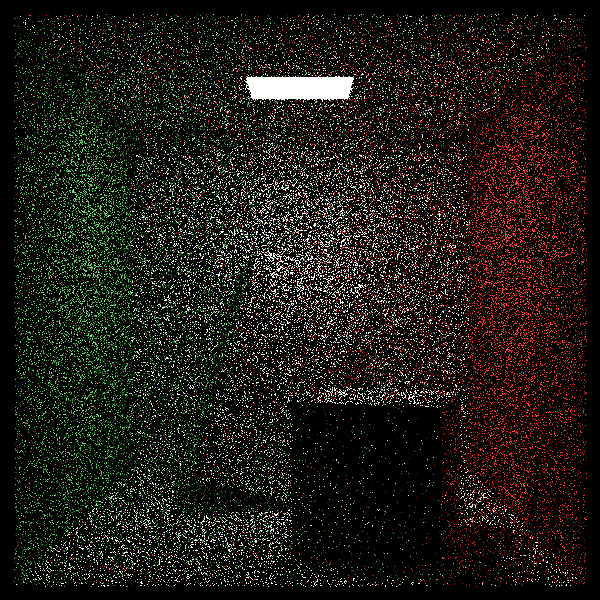
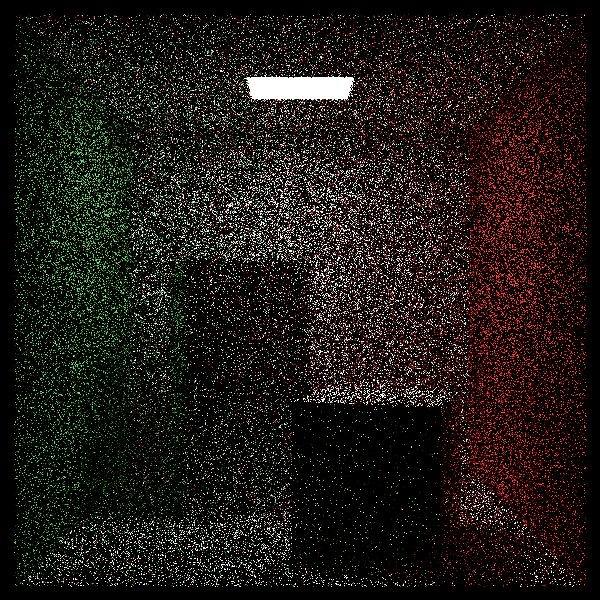
refactor rotate class

diff --git a/hittable.h b/hittable.h
@@ -35,7 +35,8 @@ public:
 
     virtual aabb bounding_box() const = 0;
 
-    virtual void print() const {};
+    virtual void print() const {
+    };
 
     virtual shared_ptr<hittable> get_left_child() const {
         return nullptr;
@@ -77,7 +78,6 @@ private:
     aabb bbox;
 };
 
-// 绕 Y 轴逆时针旋转 θ
 /*
  * 点 (x, y, z) 绕 Z 轴旋转时，z 不变，只需求 (x', y')
  * 假设逆时针旋转 θ，(x, y) 与 x 轴夹角为 α，则 (x', y') 与 x 轴夹角为 θ + α
@@ -96,6 +96,7 @@ private:
  * 得 y' = cos(θ)y - sin(θ)z，
  *    z' = sin(θ)y + cos(θ)z
  */
+// 绕 Y 轴逆时针旋转 θ
 class rotate_y : public hittable {
 public:
     rotate_y(shared_ptr<hittable> object, float angle) : object(object) {
@@ -118,11 +119,7 @@ public:
 
                     // 算出当前顶点的新的 x, z 坐标值
                     // bbox 逆时针旋转 θ
-                    auto newx = cos_theta * x + sin_theta * z;
-                    auto newz = -sin_theta * x + cos_theta * z;
-
-                    vec3 tester(newx, y, newz);
-
+                    vec3 tester = rotate_vec_counter_clockwise(vec3(x, y, z));
                     for (int c = 0; c < 3; c++) {
                         min[c] = std::fminf(min[c], tester[c]);
                         max[c] = std::fmaxf(min[c], tester[c]);
@@ -135,15 +132,9 @@ public:
 
     bool hit(const ray &r, interval ray_t, hit_record &rec) const override {
         // Transform the ray from world space to object space
-        // 光线逆时针旋转 -θ
-        auto origin = point3(cos_theta * r.origin().x() - sin_theta * r.origin().z(),
-                             r.origin().y(),
-                             sin_theta * r.origin().x() + cos_theta * r.origin().z());
-
-        auto direction = vec3(cos_theta * r.direction().x() - sin_theta * r.direction().z(),
-                              r.direction().y(),
-                              sin_theta * r.direction().x() + cos_theta * r.direction().z());
-
+        // 光线顺时针旋转 θ
+        point3 origin = rotate_vec_clockwise(r.origin());
+        auto direction = rotate_vec_clockwise(r.direction());
         ray rotated_r(origin, direction, r.time());
 
         // Determine whether an intersection exists in objects in object space (and if so, where).
@@ -152,14 +143,9 @@ public:
 
         // Transform the intersection from object space back to world space.
         // 逆时针旋转 θ
-        rec.p = point3(cos_theta * rec.p.x() + sin_theta * rec.p.z(),
-                       rec.p.y(),
-                       -sin_theta * rec.p.x() + cos_theta * rec.p.z());
-
+        rec.p = rotate_vec_counter_clockwise(rec.p);
         // 法线也需要旋转回去
-        rec.normal = vec3(cos_theta * rec.normal.x() + sin_theta * rec.normal.z(),
-                          rec.normal.y(),
-                          -sin_theta * rec.normal.x() + cos_theta * rec.normal.z());
+        rec.normal = rotate_vec_counter_clockwise(rec.normal);
 
         return true;
     }
@@ -171,10 +157,42 @@ private:
     float sin_theta;
     float cos_theta;
     aabb bbox;
+
+    // 逆时针
+    vec3 rotate_vec_counter_clockwise(vec3 v) const {
+        auto vec_x = cos_theta * v.x() + sin_theta * v.z();
+        auto vec_z = -sin_theta * v.x() + cos_theta * v.z();
+        return vec3(vec_x, v.y(), vec_z);
+    }
+
+    // 顺时针
+    vec3 rotate_vec_clockwise(vec3 v) const {
+        auto vec_x = cos_theta * v.x() - sin_theta * v.z();
+        auto vec_z = sin_theta * v.x() + cos_theta * v.z();
+        return vec3(vec_x, v.y(), vec_z);
+    }
 };
 
-// 分别绕 x, y, z 轴旋转α, β, γ 度
+// 分别绕 x, y, z 轴逆时针旋转 α, β, γ 度
 // https://blog.csdn.net/shenquanyue/article/details/103262512
+/*
+ * 首先绕 X 轴逆时针旋转
+ * x' = x
+ * y' = cos(α)y - sin(α)z
+ * z' = sin(α)y + cos(α)z
+ *
+ * 接着绕 Y 轴逆时针旋转
+ * x'' = sin(β)z' + cos(β)x' = sin(β)sin(α)y + sin(β)cos(α)z + cos(β)x
+ * y'' = y' = cos(α)y - sin(α)z
+ * z'' = cos(β)z' - sin(β)x' = cos(β)sin(α)y + cos(β)cos(α)z - sin(β)x
+ *
+ * 最后绕 Z 轴逆时针旋转
+ * x''' = cos(γ)x'' - sin(γ)y'' = cos(γ)sin(β)sin(α)y + cos(γ)sin(β)cos(α)z + cos(γ)cos(β)x - sin(γ)cos(α)y + sin(γ)sin(α)z
+ *                              = cos(β)cos(γ)x + (sin(α)sin(β)cos(γ) - sin(γ)cos(α))y + (sin(β)cos(α)cos(γ) + sin(α)sin(γ))z
+ * y''' = sin(γ)x'' + cos(γ)y'' = sin(γ)sin(β)sin(α)y + sin(γ)sin(β)cos(α)z + sin(γ)cos(β)x + cos(γ)cos(α)y - cos(γ)sin(α)z
+ *                              = sin(γ)cos(β)x + (sin(α)sin(β)sin(γ) + cos(α)cos(γ))y + (sin(β)sin(γ)cos(α) - sin(α)cos(γ))z
+ * z''' = z'' =  - sin(β)x + sin(α)cos(β)y + cos(α)cos(β)z
+ */
 class rotate : public hittable {
 public:
     rotate(shared_ptr<hittable> object, float alpha, float beta, float gamma) : object(object) {
@@ -201,10 +219,9 @@ public:
                     auto y = j * bbox.y.max + (1 - j) * bbox.y.min;
                     auto z = k * bbox.z.max + (1 - k) * bbox.z.min;
 
-                    // 算出当前顶点的新的 x, z 坐标值
+                    // 算出当前顶点的新的 x, y, z 坐标值
                     // bbox 逆时针旋转 θ
-                    vec3 tester = rotate_vec_counter_clockwise(x, y, z);
-
+                    vec3 tester = rotate_vec_counter_clockwise(vec3(x, y, z));
                     for (int c = 0; c < 3; c++) {
                         min[c] = std::fminf(min[c], tester[c]);
                         max[c] = std::fmaxf(min[c], tester[c]);
@@ -217,11 +234,9 @@ public:
 
     bool hit(const ray &r, interval ray_t, hit_record &rec) const override {
         // Transform the ray from world space to object space
-        // 光线逆时针旋转 -θ
-        auto origin = rotate_vec_negative_clockwise(r.origin().x(), r.origin().y(), r.origin().z());
-
-        auto direction = rotate_vec_negative_clockwise(r.direction().x(), r.direction().y(), r.direction().z());
-
+        // 光线顺时针旋转 θ
+        point3 origin = rotate_vec_clockwise(r.origin());
+        auto direction = rotate_vec_clockwise(r.direction());
         ray rotated_r(origin, direction, r.time());
 
         // Determine whether an intersection exists in objects in object space (and if so, where).
@@ -230,10 +245,9 @@ public:
 
         // Transform the intersection from object space back to world space.
         // 逆时针旋转 θ
-        rec.p = rotate_vec_counter_clockwise(rec.p.x(), rec.p.y(), rec.p.z());
-
+        rec.p = rotate_vec_counter_clockwise(rec.p);
         // 法线也需要旋转回去
-        rec.normal = rotate_vec_counter_clockwise(rec.normal.x(), rec.normal.y(), rec.normal.z());
+        rec.normal = rotate_vec_counter_clockwise(rec.normal);
 
         return true;
     }
@@ -250,49 +264,31 @@ private:
     float cos_gamma;
     aabb bbox;
 
-    float rotate_x(float x, float y, float z) {
-        return cos_beta * cos_gamma * x +
-               (sin_alpha * sin_beta * cos_gamma - sin_gamma * cos_alpha) * y +
-               (sin_beta * cos_alpha * cos_gamma + sin_alpha * sin_gamma) * z;
-    }
-
-    float rotate_y(float x, float y, float z) {
-        return cos_beta * sin_gamma * x +
-               (cos_alpha * cos_gamma + sin_alpha * sin_beta * sin_gamma) * y +
-               (-sin_alpha * cos_gamma + sin_gamma * sin_beta * cos_alpha) * z;
-    }
-
-    float rotate_z(float x, float y, float z) {
-        return -sin_beta * x +
-               sin_alpha * cos_beta * y +
-               cos_alpha * cos_beta * z;
-    }
-
     // 逆时针
-    vec3 rotate_vec_counter_clockwise(float x, float y, float z) const {
-        auto vec_x = cos_beta * cos_gamma * x +
-                     (sin_alpha * sin_beta * cos_gamma - sin_gamma * cos_alpha) * y +
-                     (sin_beta * cos_alpha * cos_gamma + sin_alpha * sin_gamma) * z;
-        auto vec_y = cos_beta * sin_gamma * x +
-                     (cos_alpha * cos_gamma + sin_alpha * sin_beta * sin_gamma) * y +
-                     (-sin_alpha * cos_gamma + sin_gamma * sin_beta * cos_alpha) * z;
-        auto vec_z = -sin_beta * x +
-                     sin_alpha * cos_beta * y +
-                     cos_alpha * cos_beta * z;
+    vec3 rotate_vec_counter_clockwise(vec3 v) const {
+        auto vec_x = cos_beta * cos_gamma * v.x() +
+                     (sin_alpha * sin_beta * cos_gamma - sin_gamma * cos_alpha) * v.y() +
+                     (sin_beta * cos_alpha * cos_gamma + sin_alpha * sin_gamma) * v.z();
+        auto vec_y = cos_beta * sin_gamma * v.x() +
+                     (cos_alpha * cos_gamma + sin_alpha * sin_beta * sin_gamma) * v.y() +
+                     (-sin_alpha * cos_gamma + sin_gamma * sin_beta * cos_alpha) * v.z();
+        auto vec_z = -sin_beta * v.x() +
+                     sin_alpha * cos_beta * v.y() +
+                     cos_alpha * cos_beta * v.z();
         return vec3(vec_x, vec_y, vec_z);
     }
 
     // 顺时针
-    vec3 rotate_vec_negative_clockwise(float x, float y, float z) const {
-        auto vec_x = cos_beta * cos_gamma * x +
-                     (sin_alpha * sin_beta * cos_gamma + sin_gamma * cos_alpha) * y +
-                     (-sin_beta * cos_alpha * cos_gamma + sin_alpha * sin_gamma) * z;
-        auto vec_y = -cos_beta * sin_gamma * x +
-                     (cos_alpha * cos_gamma - sin_alpha * sin_beta * sin_gamma) * y +
-                     (sin_alpha * cos_gamma + sin_gamma * sin_beta * cos_alpha) * z;
-        auto vec_z = sin_beta * x -
-                     sin_alpha * cos_beta * y +
-                     cos_alpha * cos_beta * z;
+    vec3 rotate_vec_clockwise(vec3 v) const {
+        auto vec_x = cos_beta * cos_gamma * v.x() +
+                     (sin_alpha * sin_beta * cos_gamma + sin_gamma * cos_alpha) * v.y() +
+                     (-sin_beta * cos_alpha * cos_gamma + sin_alpha * sin_gamma) * v.z();
+        auto vec_y = -cos_beta * sin_gamma * v.x() +
+                     (cos_alpha * cos_gamma - sin_alpha * sin_beta * sin_gamma) * v.y() +
+                     (sin_alpha * cos_gamma + sin_gamma * sin_beta * cos_alpha) * v.z();
+        auto vec_z = sin_beta * v.x() -
+                     sin_alpha * cos_beta * v.y() +
+                     cos_alpha * cos_beta * v.z();
         return vec3(vec_x, vec_y, vec_z);
     }
 };

diff --git a/main.cpp b/main.cpp
@@ -181,12 +181,12 @@ void quads() {
     // Quads
     world.add(make_shared<quad>(point3(-3.0f, -2.0f, 5.0f), vec3(0.0f, 0.0f, -4.0f), vec3(0.0f, 4.0f, 0.0f), left_red));
     world.add(
-            make_shared<quad>(point3(-2.0f, -2.0f, 0.0f), vec3(4.0f, 0.0f, 0.0f), vec3(0.0f, 4.0f, 0.0f), back_green));
+        make_shared<quad>(point3(-2.0f, -2.0f, 0.0f), vec3(4.0f, 0.0f, 0.0f), vec3(0.0f, 4.0f, 0.0f), back_green));
     world.add(make_shared<quad>(point3(3.0f, -2.0f, 1.0f), vec3(0.0f, 0.0f, 4.0f), vec3(0.0f, 4.0f, 0.0f), right_blue));
     world.add(
-            make_shared<quad>(point3(-2.0f, 3.0f, 1.0f), vec3(4.0f, 0.0f, 0.0f), vec3(0.0f, 0.0f, 4.0f), upper_orange));
+        make_shared<quad>(point3(-2.0f, 3.0f, 1.0f), vec3(4.0f, 0.0f, 0.0f), vec3(0.0f, 0.0f, 4.0f), upper_orange));
     world.add(
-            make_shared<quad>(point3(-2.0f, -3.0f, 5.0f), vec3(4.0f, 0.0f, 0.0f), vec3(0.0f, 0.0f, -4.0f), lower_teal));
+        make_shared<quad>(point3(-2.0f, -3.0f, 5.0f), vec3(4.0f, 0.0f, 0.0f), vec3(0.0f, 0.0f, -4.0f), lower_teal));
 
     camera cam;
 
@@ -257,13 +257,13 @@ void cornell_box() {
     world.add(make_shared<quad>(point3(0.0f, 0.0f, 555.0f), vec3(555.0f, 0.0f, 0.0f), vec3(0.0f, 555.0f, 0.0f), white));
 
     // two blocks
-    shared_ptr <hittable> box1 = box(point3(0.0f, 0.0f, 0.0f), point3(165.0f, 330.0f, 165.0f), white);
-    box1 = make_shared<rotate>(box1, 15.0f, 15.0f, 15.0f);
+    shared_ptr<hittable> box1 = box(point3(0.0f, 0.0f, 0.0f), point3(165.0f, 330.0f, 165.0f), white);
+    box1 = make_shared<rotate>(box1, 0.0f, 15.0f, 0.0f);
     box1 = make_shared<translate>(box1, vec3(265.0f, 0.0f, 295.0f));
     world.add(box1);
 
-    shared_ptr <hittable> box2 = box(point3(0.0f, 0.0f, 0.0f), point3(165.0f, 165.0f, 165.0f), white);
-    box2 = make_shared<rotate_y>(box2, -18.0f);
+    shared_ptr<hittable> box2 = box(point3(0.0f, 0.0f, 0.0f), point3(165.0f, 165.0f, 165.0f), white);
+    box2 = make_shared<rotate>(box2, 0.0f, -18.0f, 0.0f);
     box2 = make_shared<translate>(box2, vec3(130.0f, 0.0f, 65.0f));
     world.add(box2);
 
